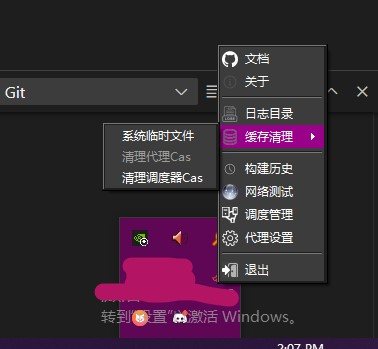
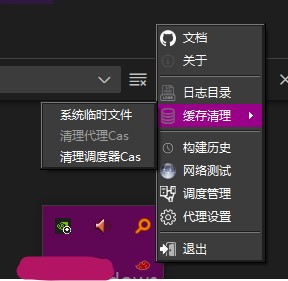
1. 硬盘空间不足 2.代理状态错误

diff --git a/常见问题.md b/常见问题.md
@@ -78,7 +78,29 @@ install_setting.json 文件中的内容如下:
 ```
 ---
 
-### 4. 登录账户和密码忘记了
+### 5. 登录账户和密码忘记了
 
 可以去调度器所在机器上，查看C:/ProgramData/Epic/install_setting.json文件
 里面有两个字段 "Username" 和 "Password"
+
+---
+
+### 6. 在安装XiaoBuild使用一段时间后硬盘空间不够了
+
+XiaoBuild在运行的过程中会有文件进行同步，日积月累就会留下很多缓存文件
+
+**解决方式**: 通过右下角的托盘程序可以清理一下缓存文件，缓存清理->清理调度器Cas
+
+如何下图所示操作:
+
+![ClearCache](./documents/resource/clear_cache.jpg)
+
+---
+
+### 7. XiaoBuild调度管理面板上有部分代理显示处于掉线状态，但是经过检查却是对应机器上的代理程序的运行是正常的
+
+**解决方式** 打开调度管理程序，通过面板上的按钮来重置对应的代理状态
+
+如下图所示操作:
+
+![ResetAgentState](./documents/resource/reset_agent_state.png)
